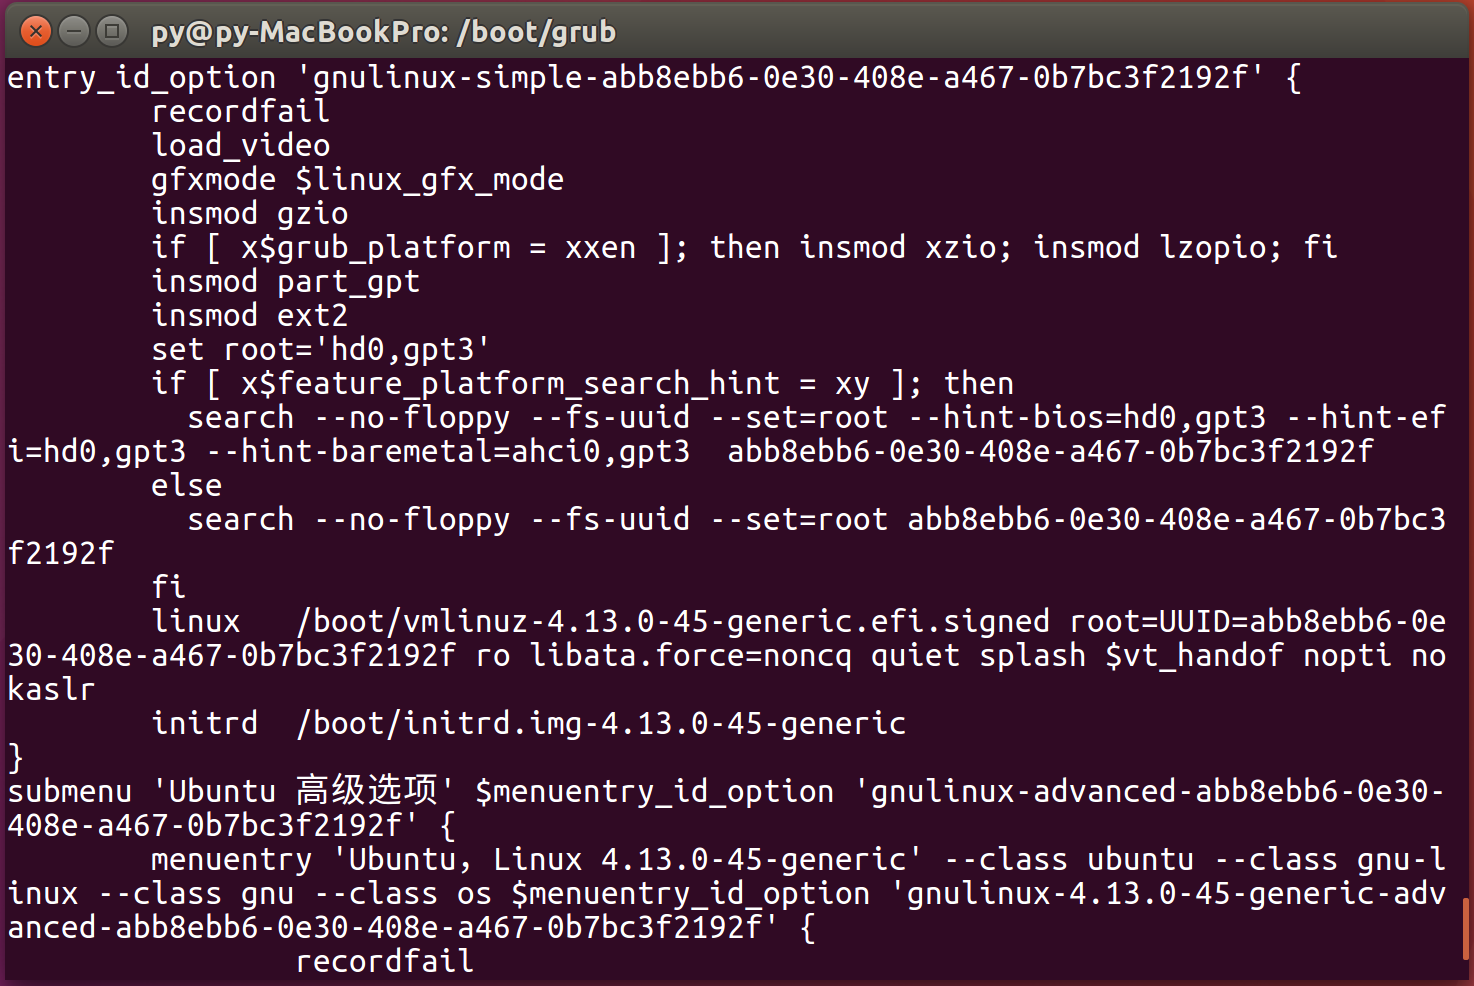
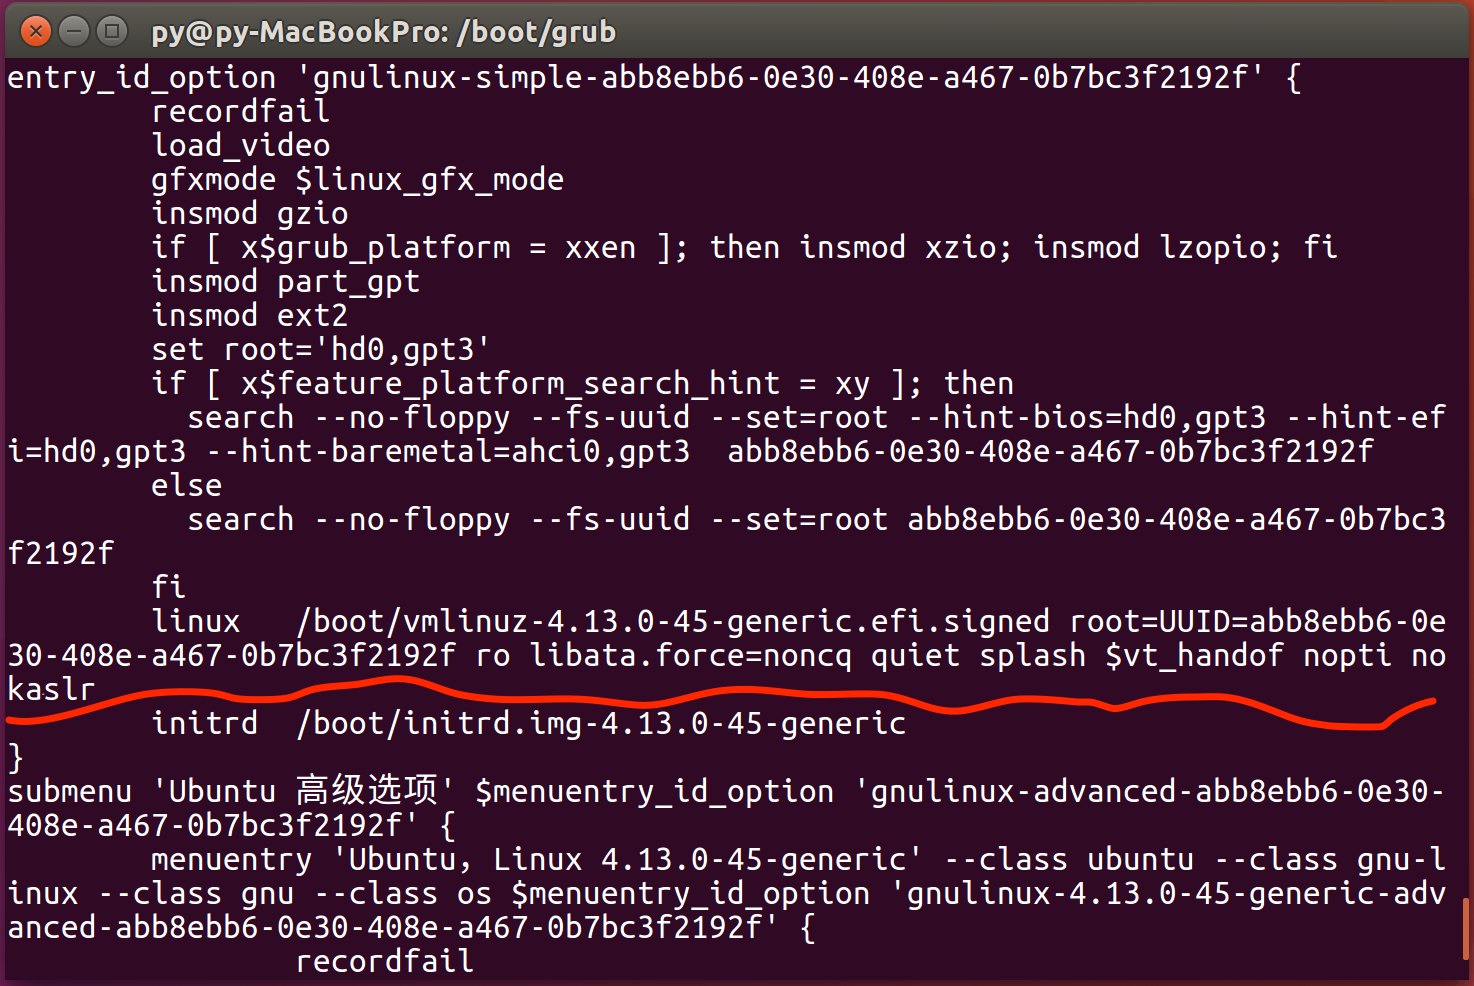
modified

diff --git a/README.md b/README.md
@@ -12,11 +12,15 @@
 
 **关闭后，再次检测meltdown漏洞如下图所示：**
 
-![3](/Users/py/Desktop/学习/大二下/OS/Lab/4/3.png)
+![image](https://github.com/OSH-2018/4-JohnnyPeng18/blob/master/3.png)
 
 **2、为了更加方便的读取物理内存空间，应该将kaslr也关闭**
 
 **关闭pti和kaslr的方法是在/boot/grub/grub.cfg中找到linux /boot/vmlinuz-4.13.0-45-generic.efi.signed root=UUID=.....   后面加上nopti 和 nokaslr**
+
+**如图所示：**
+
+![image](https://github.com/OSH-2018/4-JohnnyPeng18/blob/master/4.png)
 
 ### 实验前测试
 
@@ -24,7 +28,7 @@
 
 **检测结果如图所示：**
 
-![2](/Users/py/Desktop/学习/大二下/OS/Lab/4/2.png)
+![image](https://github.com/OSH-2018/4-JohnnyPeng18/blob/master/2.png)
 
 **由图可以看出攻击的成功率约为60%。**
 
@@ -48,7 +52,7 @@
 
 ###实验结果
 
-![1](/Users/py/Desktop/学习/大二下/OS/Lab/4/1.png)
+![image](https://github.com/OSH-2018/4-JohnnyPeng18/blob/master/1.png)
 
 **从图中可以看出，攻击程序成功从内核空间0xffffffffc0790000中获取了private_key：0x2333233323332333。**
 
